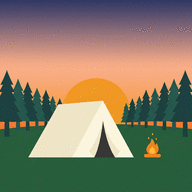
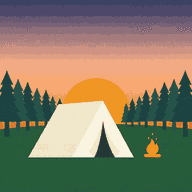
chore(v1.12.1): 刪走無用嘅 1024 大圖，PNG 減色瘦身（982KB → 467.5KB）
用戶：『照用 PNG 同唔洗大圖，就只是用作 APP 內 ICON 和 FAVICON 讓
WEBSITE 讀取而已』

- 刪 icons/icon-1024.png（378KB）—— 全 repo 冇任何檔案引用，
  只有 App Store／Play Store 上架審查才需要
- icon-512／maskable-512：256 → 48 色（98.7 → 46.6 KB）
- icon-192／maskable-192／apple-touch：256 → 32 色（15.8 → 5.2 KB）
- og-image：256 → 64 色（128.5 → 114 KB）
- 全部仍然係 PNG／ICO，唔轉 AVIF（iOS 主畫面、Android 安裝、
  favicon.ico、WhatsApp 預覽都唔支援 AVIF）
- dist 982 KB → 467.5 KB，icons/ 632 KB → 244 KB

diff --git a/index.html b/index.html
@@ -7,7 +7,7 @@
   <meta name="description" content="香港營地、宿營營舍、Glamping 與民宿渡假屋資料庫，按分區、費用、設施、交通篩選，附地圖分布。" />
   <meta name="author" content="SCOUT SYSTEM" />
   <meta name="copyright" content="© SCOUT SYSTEM" />
-  <meta name="version" content="1.12.0" />
+  <meta name="version" content="1.12.1" />
 
   <!-- v1.11.0：App Icon／favicon（iOS 加入主畫面、Android 安裝、瀏覽器分頁、分享預覽都要有圖） -->
   <link rel="icon" href="/icons/favicon.ico" sizes="any" />
@@ -48,7 +48,7 @@
       <img class="brand-logo" src="/icons/icon-192.png" width="56" height="56"
            alt="" aria-hidden="true" decoding="async" />
       <div>
-        <h1>香港露營・宿營・民宿資料庫 <span class="badge-demo" id="versionBadge">v1.12.0</span></h1>
+        <h1>香港露營・宿營・民宿資料庫 <span class="badge-demo" id="versionBadge">v1.12.1</span></h1>
         <p class="tagline">漁護署營地 ・ Glamping ・ 宿營營舍 ・ 離島渡假屋 — 搵營地、plan 活動一站看清</p>
         <p class="tagline-en" lang="en">Hong Kong campsite &amp; camp-house database — 108 sites with official data, fees, transport and facilities.</p>
       </div>
@@ -278,7 +278,7 @@
 
 <footer class="site-footer">
   <div class="container">
-    <p>香港營地資料庫 · © SCOUT SYSTEM · v<span id="appVersion">1.12.0</span></p>
+    <p>香港營地資料庫 · © SCOUT SYSTEM · v<span id="appVersion">1.12.1</span></p>
     <p>地圖由 Leaflet + OpenStreetMap 提供 · 天氣數據由香港天文台提供</p>
     <p class="visit-line"><span id="visitCount">👣 入站人次統計中…</span></p>
   </div>

diff --git a/app.js b/app.js
@@ -6,7 +6,7 @@
   //   data-app="營地資料庫" 會令後台多一個同名膠囊。所以 app.js 依然係零 fetch、零表單。
   const SITES = Array.isArray(window.CAMPSITES) ? window.CAMPSITES : [];
   // 雙版號：package.json / index.html meta / 本常數 / VERSIONS.md 四處要同步（V1）
-  const APP_VERSION = '1.12.0';
+  const APP_VERSION = '1.12.1';
 
 
   const TYPE_META = {

diff --git a/README.md b/README.md
@@ -107,7 +107,7 @@
 > 官方標明**芝麻灣（1997 停）、樂安排（1999 停）**兩個站預測誤差較大，故不採用。
 > 初始快照只含 2026-10-27 至 11-04 共 9 日；每日 `sync-data.yml` 會補齊當月＋下月全部日子。
 
-## App Icon／favicon（v1.12.0）
+## App Icon／favicon（v1.12.1）
 
 加落手機主畫面、Android 安裝、瀏覽器分頁、WhatsApp 分享 —— 四個位都要圖，唔係就會出白板。
 
@@ -129,16 +129,37 @@
 
 ### 檔案
 
-| 檔案 | 用途 |
-|---|---|
-| `icons/favicon.ico` | 16／32／48 三合一（舊瀏覽器、書籤） |
-| `icons/favicon-16.png` | **專為 16px 手繪**：橙日＋白帳篷＋綠地三層色，唔係縮細版 |
-| `icons/favicon-32.png` | 瀏覽器分頁 |
-| `icons/apple-touch-icon.png` （180） | iOS「加入主畫面」 |
-| `icons/icon-192.png`／`icon-512.png` | Android／PWA；亦係網站 header 個 56px logo |
-| `icons/icon-maskable-192.png`／`-512.png` | Android maskable（全出血場景，裁圓形都唔會切走帳篷／營火） |
-| `icons/og-image.png` （1200×630） | WhatsApp／Signal／Facebook 預覽圖（漸變底 + 居中圖標） |
-| `manifest.webmanifest` | `standalone`、`theme_color #1B4D28`、4 個 icon（含 maskable） |
+**只有 9 個檔，全部 PNG／ICO** —— 每個都係「真係有嘢讀佢」先留：
+
+| 檔案 | 尺寸 | 體積 | 邊個讀佢 |
+|---|---|---:|---|
+| `icons/favicon.ico` | 16／32／48 | 15.1 KB | 書籤、舊瀏覽器 |
+| `icons/favicon-16.png` | 16×16 | 0.5 KB | 瀏覽器分頁（**手繪三層色版**） |
+| `icons/favicon-32.png` | 32×32 | 1.6 KB | 瀏覽器分頁（Retina） |
+| `icons/apple-touch-icon.png` | 180×180 | 5.2 KB | **iOS「加入主畫面」** |
+| `icons/icon-192.png` | 192×192 | 5.3 KB | Android／PWA／網站 header logo |
+| `icons/icon-512.png` | 512×512 | 46.6 KB | Android／PWA／PWA 安裝 |
+| `icons/icon-maskable-192.png` | 192×192 | 5.3 KB | Android 裁圓形 |
+| `icons/icon-maskable-512.png` | 512×512 | 46.6 KB | Android 裁圓形 |
+| `icons/og-image.png` | 1200×630 | 114 KB | WhatsApp／Signal／FB 分享預覽 |
+| `manifest.webmanifest` | — | — | Android「安裝應用程式」 |
+
+**冇 1024×1024**：冇任何檔案引用佢，只有「上 App Store／Play Store」提交審查才需要。
+要上架時先用 `logo/` 個原圖另存一張就得，唔使長期擺喺 repo（378 KB）。
+
+### 為咩唔轉 AVIF／WebP
+
+試過，但**四個位會即刻壞**：
+
+| 位 | 支援 | 一轉 AVIF 就 |
+|---|---|---|
+| `apple-touch-icon` | 只認 PNG | iOS 主畫面**變白板** |
+| `manifest` icons | Android 主要用 PNG | 「安裝應用程式」可能失效 |
+| `favicon.ico` | 必須 ICO | 書籤冇圖 |
+| `og:image` | WhatsApp／FB 唔支援 AVIF | 貼連結**又變一行字** |
+
+AVIF 只適合放喺**有 fallback 嘅 `<img>`**（即係 header 個 logo 可以，但只省 13 KB，唔值）。
+所以全部保持 PNG，改用**減色**（256 → 32／48 色）省位，肉眼睇唔出分別。
 
 ### 三個踩過嘅坑（都係實測睇返出嚟）
 

diff --git a/VERSIONS.md b/VERSIONS.md
@@ -38,3 +38,4 @@
 | 1.11.0 | 2026-10-28 | **App Icon／favicon／PWA**（用戶提出：上架／加主畫面會無圖）：新增 `icons/` 10 個檔（favicon.ico 16/32/48、16px 手繪簡化版、apple-touch-icon 180、Android 192/512、**maskable** 192/512、og-image 1200×630）、`manifest.webmanifest`（standalone + maskable）、`robots.txt`；`index.html` 加 11 個 icon／PWA／OG meta；`build-site.mjs` 會部署 icons；`vercel.json` 加 icons 一年 immutable cache；guard 第 18 項驗尺寸同 manifest 內容；`slim-report` 支援子目錄 | F / S / V |
 | 1.11.1 | 2026-10-28 | **maskable icon 縮入安全區**：Android 官方要求 maskable 圖嘅安全區係直徑 **66%**（我第一版用咗 80%）—— 實測預覽見到波浪線貼住圓邊，會被裁走。改為 124/192、330/512 | V |
 | 1.12.0 | 2026-10-28 | **彩色露營 Logo**（用戶：『有露營感覺多 D 同唔好得 2 隻色甘單調』）：由平面雙色帳篷改為**日落露營場景** —— 深靛→蜜桃漸變天空、橙黃落日、暗青松樹林、奶白 A 形帳篷、草地綠前景、橙黃營火。全套 10 個圖標重生（16px 仍用手繪簡化版保住三層色），PNG8 壓縮令 dist 由 2.7MB 降至 ~400KB；`og-image` 改為漸變底 + 居中圖標；網站 header 加 56px logo（手機 44px） | F / S / V |
+| 1.12.1 | 2026-10-28 | **瘦身：刪走大圖＋PNG 只留實際用到嘅尺寸**（用戶：『照用 PNG 同唔洗大圖，就只是用作 APP 內 ICON 和 FAVICON 讓 WEBSITE 讀取而已』）：刪 `icon-1024.png`（378KB，冇任何檔案引用，只有 App Store 上架才需要）；icon-512 maskable 256→48 色、192／apple-touch 256→32 色（肉眼無差異）；og-image 256→64 色。**全部仍然係 PNG** —— iOS 主畫面、Android 安裝、favicon.ico、WhatsApp 預覽一律唔轉 AVIF（唔支援）。dist 982 KB → **467.5 KB** | S / V |

diff --git a/PROGRESS.md b/PROGRESS.md
@@ -362,6 +362,34 @@ test 21/21、`npm run ui` 28/28（第 E 段驗：widget 有嵌、卡片冇多餘
 
 ---
 
+### v1.12.1 — 刪大圖＋PNG 減色瘦身（2026-10-28）
+
+用戶：「照用 PNG 同唔洗大圖，就只是用作 APP 內 ICON 和 FAVICON 讓 WEBSITE 讀取而已」
+
+**全部保持 PNG／ICO，唔轉 AVIF** —— 試過度，四個位一轉就壞：
+
+| 位 | 一轉 AVIF 就 |
+|---|---|
+| `apple-touch-icon` | iOS 主畫面變白板（iOS 只認 PNG） |
+| `manifest` icons | Android「安裝應用程式」可能失效 |
+| `favicon.ico` | 書籤冇圖（必須 ICO） |
+| `og:image` | WhatsApp／FB 唔支援 → 貼連結又變一行字 |
+
+**做咗兩件事省位：**
+
+1. **刪 `icon-1024.png`（378 KB）** —— 全 repo 冇任何檔案引用佢。
+   只有上 App Store／Play Store 提交審查才需要，要時用 `logo/` 原圖另存就得。
+2. **減色**（`-dither None -colors`）：
+   - icon-512／maskable-512：256 → **48 色**（98.7 → 46.6 KB）
+   - icon-192／maskable-192／apple-touch：256 → **32 色**（15.8 → 5.2–5.3 KB）
+   - og-image：256 → **64 色**（128.5 → 114 KB）
+
+肉眼對照過 300px 放大版，睇唔出分別（天空漸變有極輕微 banding，圖標尺寸下不可見）。
+
+**結果：dist 982 KB → 467.5 KB（−52%），圖標資料夾 632 KB → 244 KB。**
+
+驗收：guard **18/18**、test **21/21**、ui **112/112**。
+
 ### v1.12.0 — 彩色露營 Logo（2026-10-28）
 
 用戶：「有露營感覺多 D 同唔好得 2 隻色甘單調」，再補「完成後就合併到 MAIN」。
